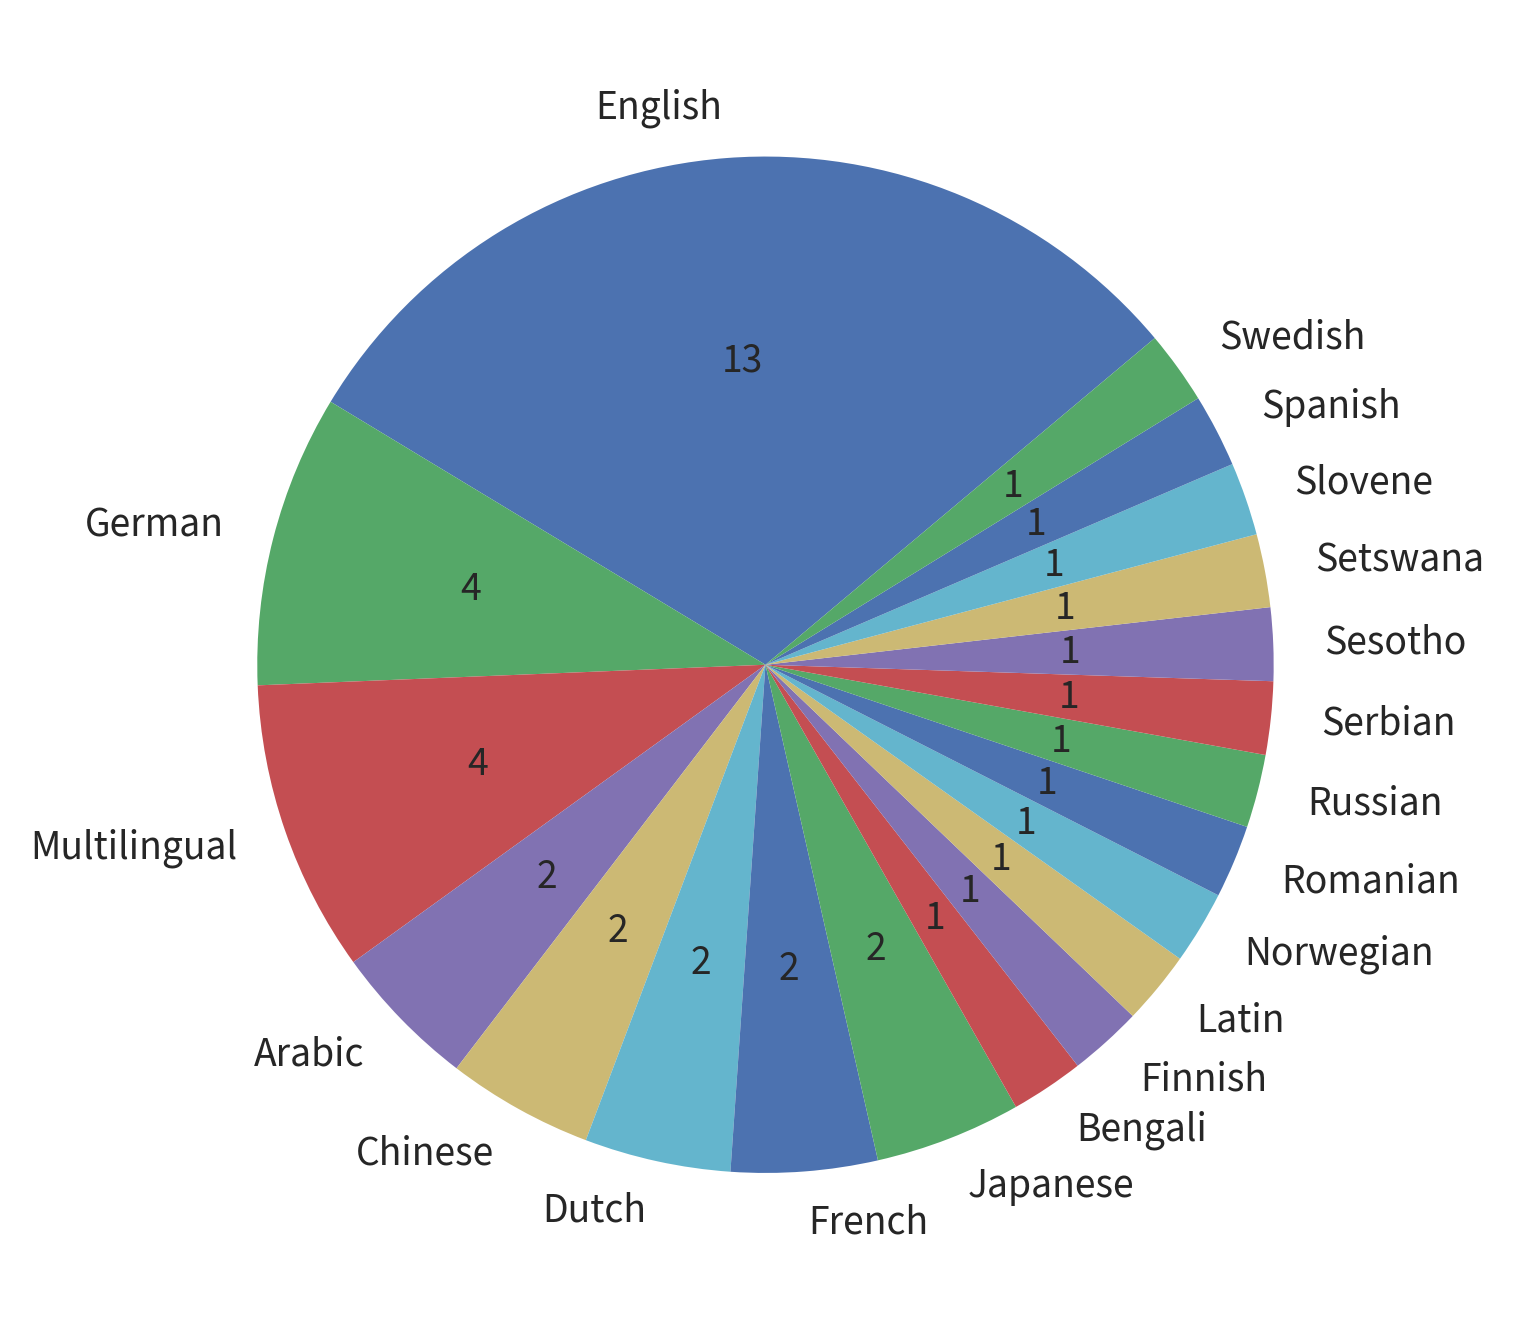
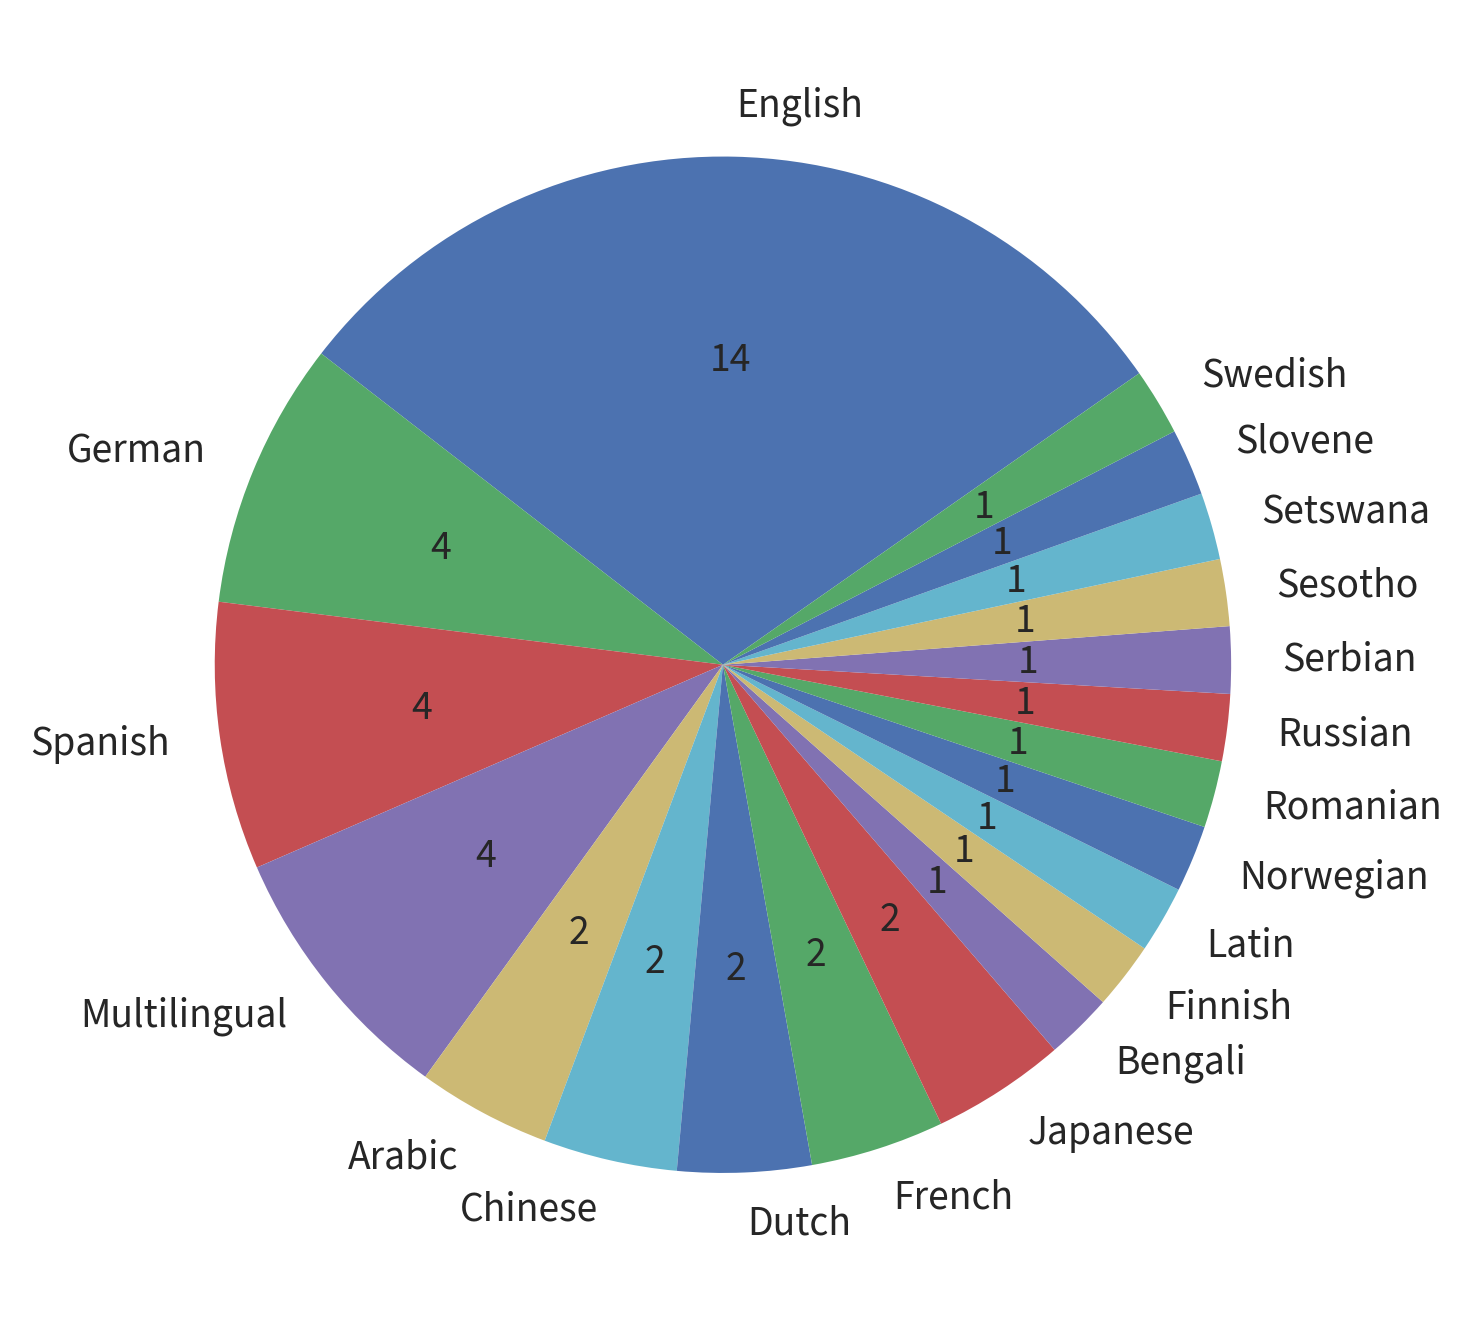
Add missing TS papers

diff --git a/_posts/2024-05-25-ts-lrec2024-languages.md b/_posts/2024-05-25-ts-lrec2024-languages.md
@@ -6,7 +6,7 @@ date: 2024-05-25
 tags: nlp text-simplification readability accessibility
 ---
 
-The community of researchers working on **text simplification and readability** is rapidly growing and the research in these areas is becoming increasingly multilingual. I identified **45 papers** published at LREC-COLING 2024 on these topics (including workshop papers) and ordered them by language.
+The community of researchers working on **text simplification and readability** is rapidly growing and the research in these areas is becoming increasingly multilingual. I identified **47 papers** on these topics published at LREC-COLING 2024 (including workshop papers) and ordered them by language.
 
 {% include figure.liquid path="assets/img/ts-lrec2024-languages.png" caption="Language distribution among text simplification papers at LREC-COLING 2024" %}
 
@@ -32,6 +32,7 @@ The community of researchers working on **text simplification and readability** 
 - Gabriel Gonzalez-Delgado and Borja Navarro-Colorado: [The Simplification of the Language of Public Administration: The Case of Ombudsman Institutions](https://aclanthology.org/2024.determit-1.12)
 - Liam Cripwell, Joël Legrand, and Claire Gardent: [Evaluating Document Simplification: On the Importance of Separately Assessing Simplicity and Meaning Preservation](https://aclanthology.org/2024.readi-1.1)
 - Hikaru Yamanaka and Takenobu Tokunaga: [SIERA: An Evaluation Metric for Text Simplification using the Ranking Model and Data Augmentation by Edit Operations](https://aclanthology.org/2024.readi-1.5)
+- Andreea Maria Deleanu, Constantin Orasan, Sabine Braun: [Accessible Communication: a systematic review and comparative analysis of official English Easy-to-Understand (E2U) language guidelines](https://aclanthology.org/2024.readi-1.7/)
 - Keren Tan, Kangyang Luo, Yunshi Lan, Zheng Yuan, and Jinlong Shu: [An LLM-Enhanced Adversarial Editing System for Lexical Simplification](https://aclanthology.org/2024.lrec-main.102)
 - Christine Pinney, Casey Kennington, Maria Soledad Pera, Katherine Landau Wright, and Jerry Alan Fails: [Incorporating Word-level Phonemic Decoding into Readability Assessment](https://aclanthology.org/2024.lrec-main.788)
 - Asma Farajidizaji, Vatsal Raina, and Mark Gales: [Is It Possible to Modify Text to a Target Readability Level? An Initial Investigation Using Zero-Shot Large Language Models](https://aclanthology.org/2024.lrec-main.815)
@@ -85,6 +86,7 @@ The community of researchers working on **text simplification and readability** 
 - Margot Madina, Itziar Gonzalez-Dios, and Melanie Siegel: [A Preliminary Study of ChatGPT for Spanish E2R Text Adaptation](https://aclanthology.org/2024.lrec-main.126)
 - Jasper Degraeuwe and Patrick Goethals: [LexComSpaL2: A Lexical Complexity Corpus for Spanish as a Foreign Language](https://aclanthology.org/2024.lrec-main.912)
 - Leonardo Campillos-Llanos, Ana Rosa Terroba, Rocío Bartolomé, Ana Valverde-Mateos, Cristina González, Adrián Capllonch-Carrión, and Jonathan Heras: [Replace, Paraphrase or Fine-tune? Evaluating Automatic Simplification for Medical Texts in Spanish](https://aclanthology.org/2024.lrec-main.1216)
+- Margot Madina, Itziar Gonzalez-Dios, Melanie Siegel: [LanguageTool as a CAT tool for Easy-to-Read in Spanish](https://aclanthology.org/2024.readi-1.8/)
 
 **Swedish:**
 - Julius Monsen and Arne Jonsson: [Controllable Sentence Simplification in Swedish Using Control Prefixes and Mined Paraphrases](https://aclanthology.org/2024.lrec-main.349)
